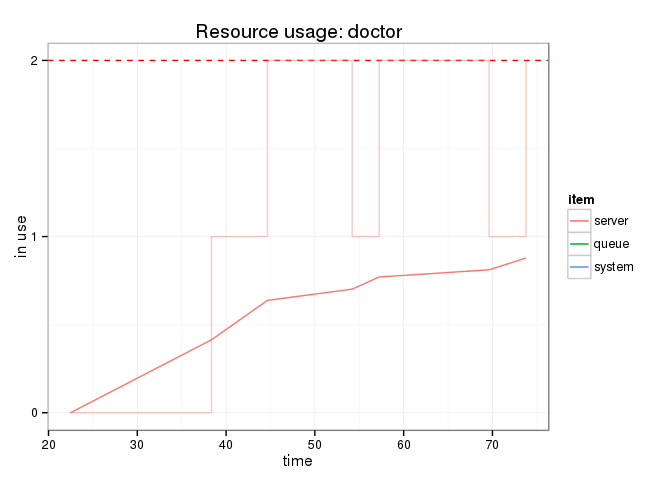
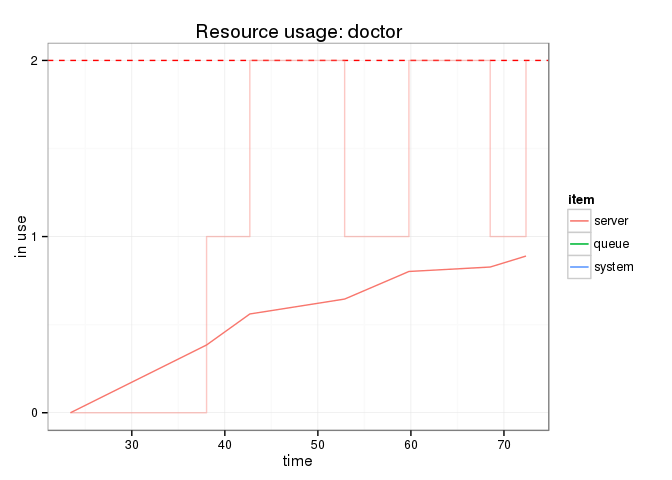
updated documentation

diff --git a/README.html b/README.html
@@ -1,7 +1,6 @@
 <div id="simmer-build-status" class="section level1">
 <h1>simmer <a href="https://travis-ci.org/Bart6114/simmer"><img src="https://travis-ci.org/Bart6114/simmer.svg?branch=master" alt="Build Status" /></a></h1>
 <p><em>by Bart Smeets (<a href="mailto:bartsmeets86@gmail.com">bartsmeets86@gmail.com</a>) &amp; Iñaki Ucar (<a href="mailto:i.ucar86@gmail.com">i.ucar86@gmail.com</a>)</em></p>
-<p><strong><em>simmer</em> is under heavy development and its internals and syntax can still change extensively over the coming time</strong></p>
 <p><em>simmer</em> is a discrete event simulation (DES) package for the R language designed to be a generic framework like <a href="https://simpy.readthedocs.org">SimPy</a> or <a href="http://simjuliajl.readthedocs.org">SimJulia</a>. Although R alone is definitely not made for DES, we use <a href="http://www.rcpp.org/">Rcpp</a> to boost the performance of <em>simmer</em>. This faces us with an important trade-off between flexibility and performance, depending on how much code remains in R or goes to C++ respectively.</p>
 <p>Our implementation solves this problem by introducing the concept of <em>trajectory</em>: a common path in the simulation model for arrivals of the same type. As we will see, it is pretty flexible and simple to use, and leverages the chaining/piping workflow introduced by <a href="https://cran.r-project.org/web/packages/R6/">R6</a> classes.</p>
 <div id="installation" class="section level2">
@@ -38,16 +37,16 @@
 <p>The simulation is now ready for a test run; just let it <em>simmer</em> for a bit. Below, we specify that we want to limit the runtime to 80 time units using the <code>until</code> argument. After that, we verify the current simulation time (<code>now()</code>) and when will be the next event (<code>peek()</code>).</p>
 <pre class="r"><code>simmer$run(until=80)
 simmer$now()</code></pre>
-<pre><code>## [1] 86.26052</code></pre>
+<pre><code>## [1] 86.54868</code></pre>
 <pre class="r"><code>simmer$peek()</code></pre>
-<pre><code>## [1] 86.26052</code></pre>
+<pre><code>## [1] 86.54868</code></pre>
 <p>It is possible to run the simulation step by step, and such a method is chainable too.</p>
 <pre class="r"><code>simmer$step()
 simmer$step()$step()$step()
 simmer$now()</code></pre>
-<pre><code>## [1] 87.02796</code></pre>
+<pre><code>## [1] 87.71943</code></pre>
 <pre class="r"><code>simmer$peek()</code></pre>
-<pre><code>## [1] 87.02796</code></pre>
+<pre><code>## [1] 87.71943</code></pre>
 <p>Also, it is possible to resume the automatic execution simply by specifying a longer runtime. Below, we continue the execution until 120 time units.</p>
 <pre class="r"><code>simmer$run(until=120)</code></pre>
 <p>Finally, you can reset the simulation, flush all results, resources and generators, and restart from the beginning.</p>
@@ -84,20 +83,20 @@ reps &lt;- mclapply(1:100, function(i) {
 <pre class="r"><code>head(
   reps[[1]]$get_mon_resources()
 )</code></pre>
-<pre><code>##        time server queue system resource
-## 1  9.909025      0     0      0    nurse
-## 2 22.559753      1     0      1    nurse
-## 3 25.309044      1     1      2    nurse
-## 4 34.447334      1     0      1    nurse
-## 5 40.129584      1     1      2    nurse
-## 6 42.491323      1     0      1    nurse</code></pre>
+<pre><code>##       time server queue system resource
+## 1 12.72931      0     0      0    nurse
+## 2 21.44782      1     0      1    nurse
+## 3 28.27344      1     1      2    nurse
+## 4 30.51148      1     0      1    nurse
+## 5 39.15172      1     1      2    nurse
+## 6 45.75769      1     2      3    nurse</code></pre>
 <pre class="r"><code>head(
   reps[[1]]$get_mon_arrivals()
 )</code></pre>
 <pre><code>##       name start_time end_time activity_time finished
-## 1 patient0   9.909025 50.09229      40.18326     TRUE
-## 2 patient1  22.559753 66.80409      41.49504     TRUE
-## 3 patient2  34.447334 77.33145      37.20187     TRUE</code></pre>
+## 1 patient0   12.72931 51.58249      38.85318     TRUE
+## 2 patient1   21.44782 73.01184      44.73839     TRUE
+## 3 patient2   30.51148 84.50470      38.74701     TRUE</code></pre>
 <p>Unfortunately, as the C++ simulation cores are destroyed, parallelization does not allow to resume the execution of replicas.</p>
 </div>
 <div id="advanced-trajectories" class="section level3">

diff --git a/README.md b/README.md
@@ -2,8 +2,6 @@
 
 *by Bart Smeets (bartsmeets86@gmail.com) & Iñaki Ucar (i.ucar86@gmail.com)*
 
-__*simmer* is under heavy development and its internals and syntax can still change extensively over the coming time__
-
 *simmer* is a discrete event simulation (DES) package for the R language designed to be a generic framework like [SimPy](https://simpy.readthedocs.org) or [SimJulia](http://simjuliajl.readthedocs.org). Although R alone is definitely not made for DES, we use [Rcpp](http://www.rcpp.org/) to boost the performance of *simmer*. This faces us with an important trade-off between flexibility and performance, depending on how much code remains in R or goes to C++ respectively.
 
 Our implementation solves this problem by introducing the concept of *trajectory*: a common path in the simulation model for arrivals of the same type. As we will see, it is pretty flexible and simple to use, and leverages the chaining/piping workflow introduced by [R6](https://cran.r-project.org/web/packages/R6/) classes. 
@@ -71,7 +69,7 @@ simmer$now()
 ```
 
 ```
-## [1] 86.26052
+## [1] 86.54868
 ```
 
 ```r
@@ -79,7 +77,7 @@ simmer$peek()
 ```
 
 ```
-## [1] 86.26052
+## [1] 86.54868
 ```
 
 It is possible to run the simulation step by step, and such a method is chainable too.
@@ -92,7 +90,7 @@ simmer$now()
 ```
 
 ```
-## [1] 87.02796
+## [1] 87.71943
 ```
 
 ```r
@@ -100,7 +98,7 @@ simmer$peek()
 ```
 
 ```
-## [1] 87.02796
+## [1] 87.71943
 ```
 
 Also, it is possible to resume the automatic execution simply by specifying a longer runtime. Below, we continue the execution until 120 time units.
@@ -177,13 +175,13 @@ head(
 ```
 
 ```
-##        time server queue system resource
-## 1  9.909025      0     0      0    nurse
-## 2 22.559753      1     0      1    nurse
-## 3 25.309044      1     1      2    nurse
-## 4 34.447334      1     0      1    nurse
-## 5 40.129584      1     1      2    nurse
-## 6 42.491323      1     0      1    nurse
+##       time server queue system resource
+## 1 12.72931      0     0      0    nurse
+## 2 21.44782      1     0      1    nurse
+## 3 28.27344      1     1      2    nurse
+## 4 30.51148      1     0      1    nurse
+## 5 39.15172      1     1      2    nurse
+## 6 45.75769      1     2      3    nurse
 ```
 
 ```r
@@ -194,9 +192,9 @@ head(
 
 ```
 ##       name start_time end_time activity_time finished
-## 1 patient0   9.909025 50.09229      40.18326     TRUE
-## 2 patient1  22.559753 66.80409      41.49504     TRUE
-## 3 patient2  34.447334 77.33145      37.20187     TRUE
+## 1 patient0   12.72931 51.58249      38.85318     TRUE
+## 2 patient1   21.44782 73.01184      44.73839     TRUE
+## 3 patient2   30.51148 84.50470      38.74701     TRUE
 ```
 
 Unfortunately, as the C++ simulation cores are destroyed, parallelization does not allow to resume the execution of replicas.
